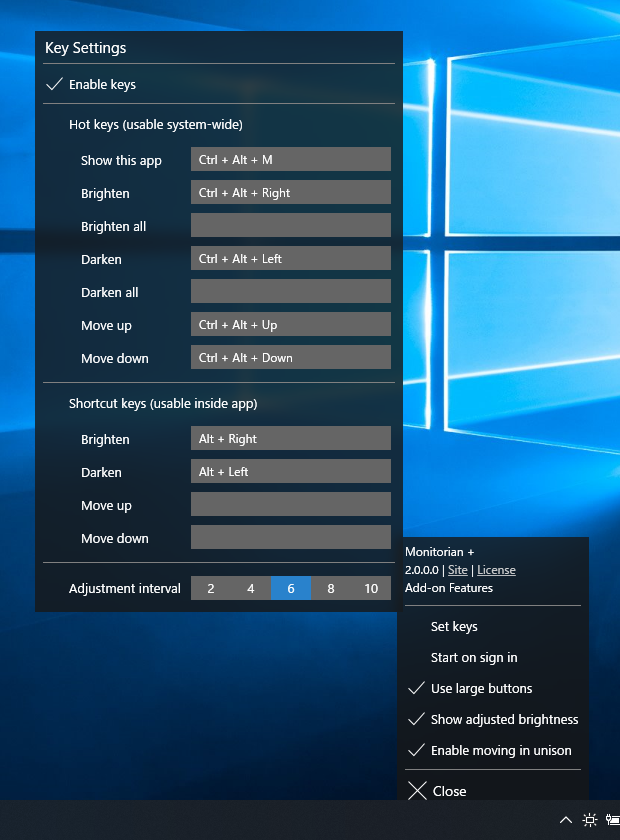
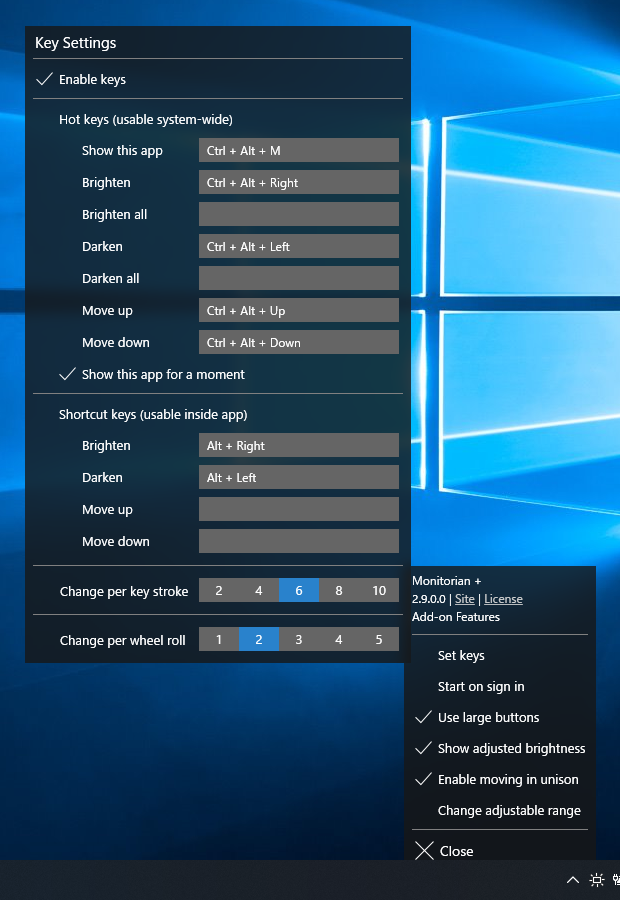
Update readme and images

diff --git a/README.md b/README.md
@@ -28,7 +28,7 @@ In addition, the user can change the adjustable range of brightness for each mon
 [Monitorian](https://www.microsoft.com/store/apps/9nw33j738bl0) (Microsoft Store)
 
  * Other:<br>
-:floppy_disk: [Installer](https://github.com/emoacht/Monitorian/releases/download/2.8.0-Installer/MonitorianInstaller280.zip) | :floppy_disk: [Executables](https://github.com/emoacht/Monitorian/releases/download/2.8.0-Executables/Monitorian280.zip)
+:floppy_disk: [Installer](https://github.com/emoacht/Monitorian/releases/download/2.9.0-Installer/MonitorianInstaller290.zip) | :floppy_disk: [Executables](https://github.com/emoacht/Monitorian/releases/download/2.9.0-Executables/Monitorian290.zip)
 
 ## Install/Uninstall
 
@@ -96,9 +96,13 @@ An alternative language can be shown by adding a Resources (.resx) file into `/S
 
 ## History
 
+Ver 2.9 2020-12-22
+
+- Improve codes
+
 Ver 2.8 2020-11-23
 
-- Adjust mouse wheel rotation
+- Adjust mouse wheel roll
 
 Ver 2.7 2020-10-30
 
